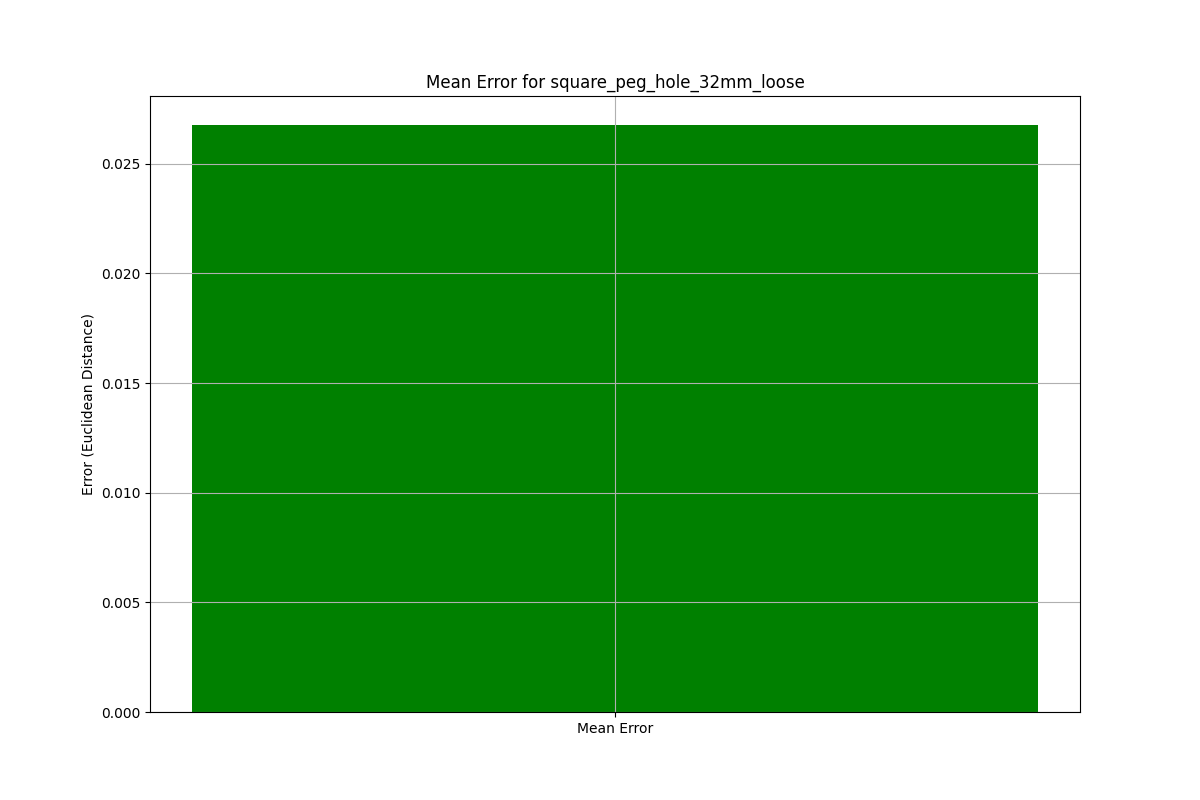
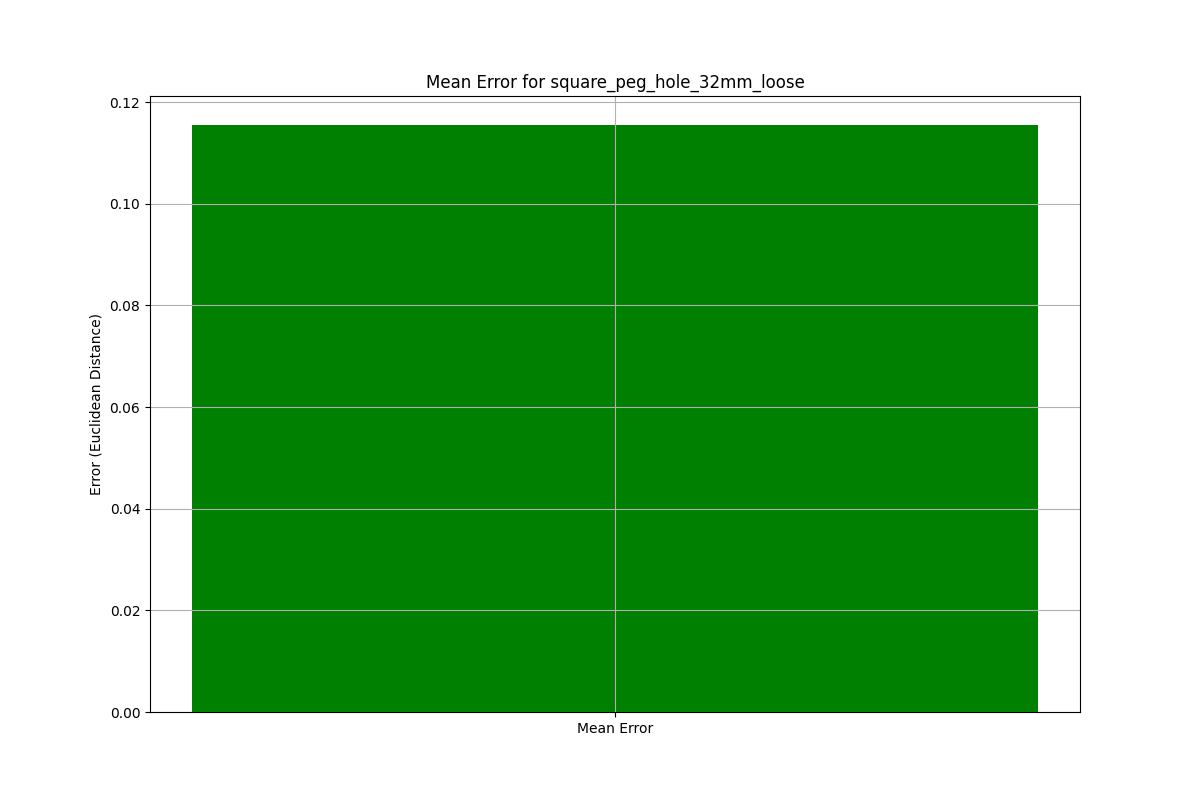
with socket noise

diff --git a/isaacgyminsertion/tasks/factory_tactile/factory_env_insertion.py b/isaacgyminsertion/tasks/factory_tactile/factory_env_insertion.py
@@ -554,12 +554,13 @@ class FactoryEnvInsertionTactile(FactoryBaseTactile, FactoryABCEnv):
         self.init_plug_quat[subassembly] = torch.zeros((self.total_init_poses[subassembly], 4))
         self.init_dof_pos[subassembly] = torch.zeros((self.total_init_poses[subassembly], 15))
 
-        if add_noise:
-            socket_pos = self.add_socket_noise(self.initial_grasp_poses[subassembly]['socket_pos'])
-        else:
-            socket_pos = self.initial_grasp_poses[subassembly]['socket_pos']
-
+        socket_pos = self.initial_grasp_poses[subassembly]['socket_pos']
         socket_quat = self.initial_grasp_poses[subassembly]['socket_quat']
+
+        if add_noise:
+            socket_pos = self.add_socket_noise(socket_pos)
+            socket_quat = self.add_socket_quat_noise(socket_quat)
+
         plug_pos = self.initial_grasp_poses[subassembly]['plug_pos']
         plug_quat = self.initial_grasp_poses[subassembly]['plug_quat']
         dof_pos = self.initial_grasp_poses[subassembly]['dof_pos']
@@ -602,6 +603,18 @@ class FactoryEnvInsertionTactile(FactoryBaseTactile, FactoryABCEnv):
         socket_pos[:, 2] = self.cfg_base.env.table_height + socket_noise_z
 
         return socket_pos
+
+    def add_socket_quat_noise(self, socket_quat):
+
+        num_positions = len(socket_quat)
+
+        # Randomize socket quat
+        socket_rot_noise = 2 * (np.random.rand(num_positions, 3) - 0.5)
+        noise_scale = np.diag(self.cfg['randomize']['socket_rot_euler_noise'])
+        socket_rot_noise = socket_rot_noise @ noise_scale
+        socket_quat[:, :] = R.from_euler('xyz', socket_rot_noise).as_quat()
+
+        return socket_quat
 
     def _import_env_assets(self):
         """Set plug and socket asset options. Import assets."""

diff --git a/isaacgyminsertion/tasks/factory_tactile/factory_task_insertion.py b/isaacgyminsertion/tasks/factory_tactile/factory_task_insertion.py
@@ -726,27 +726,16 @@ class FactoryTaskInsertionTactile(FactoryEnvInsertionTactile, FactoryABCTask):
 
         obs = torch.cat([eef_pos,  # 9
                          actions,  # 6
-                         noisy_delta_pos  # 3
+                         # noisy_delta_pos  # 3
                          ], dim=-1)
 
         self.obs_queue[:, :-self.num_observations] = self.obs_queue[:, self.num_observations:]
         self.obs_queue[:, -self.num_observations:] = obs
 
-        eef_stud = torch.cat(self.pose_world_to_robot_base(self.fingertip_centered_pos.clone(),
-                                                           self.fingertip_centered_quat.clone(),
-                                                           to_rep='matrix'), dim=-1)
-        # fix bug
-        eef_stud = torch.cat((self.fingertip_centered_pos,
-                              self.stud_tf.forward(eef_stud[:, 3:].reshape(eef_stud.shape[0], 3, 3))), dim=1)
-
-        # test = torch.cat(self.pose_world_to_robot_base(self.plug_pos.clone(),
-        #                                                   self.plug_quat.clone(),
-        #                                                   to_rep='rot6d'), dim=-1)
-
         obs_tensors_student = torch.cat([
-            eef_stud,
-            noisy_delta_pos,  # 3
-            actions,
+            eef_pos,
+            actions,  # 3
+            # noisy_delta_pos,
         ], dim=-1)
 
         self.obs_stud_queue[:, :-self.num_obs_stud] = self.obs_stud_queue[:, self.num_obs_stud:]

diff --git a/isaacgyminsertion/tasks/factory_tactile/factory_base.py b/isaacgyminsertion/tasks/factory_tactile/factory_base.py
@@ -648,6 +648,24 @@ class FactoryBaseTactile(VecTask, FactoryABCBase):
         else:
             return pos_in_robot_base, quat_in_robot_base
 
+    def pose_world_to_socket_base(self, pos, quat, to_rep='matrix'):
+        """Convert pose from world frame to robot base frame."""
+
+        # convert
+        robot_base_transform_inv = torch_utils.tf_inverse(
+            self.socket_quat, self.socket_pos
+        )
+        quat_in_robot_base, pos_in_robot_base = torch_utils.tf_combine(
+            robot_base_transform_inv[0], robot_base_transform_inv[1], quat, pos
+        )
+
+        if to_rep == 'matrix':
+            return pos_in_robot_base, quat2R(quat_in_robot_base).reshape(self.num_envs, -1)
+        elif to_rep == 'rot6d':
+            return pos_in_robot_base, self.rot_tf.forward(quat_in_robot_base)
+        else:
+            return pos_in_robot_base, quat_in_robot_base
+
     def pose_world_to_hand_base(self, pos, quat, to_rep=None):
         """Convert pose from world frame to robot base frame."""
 
